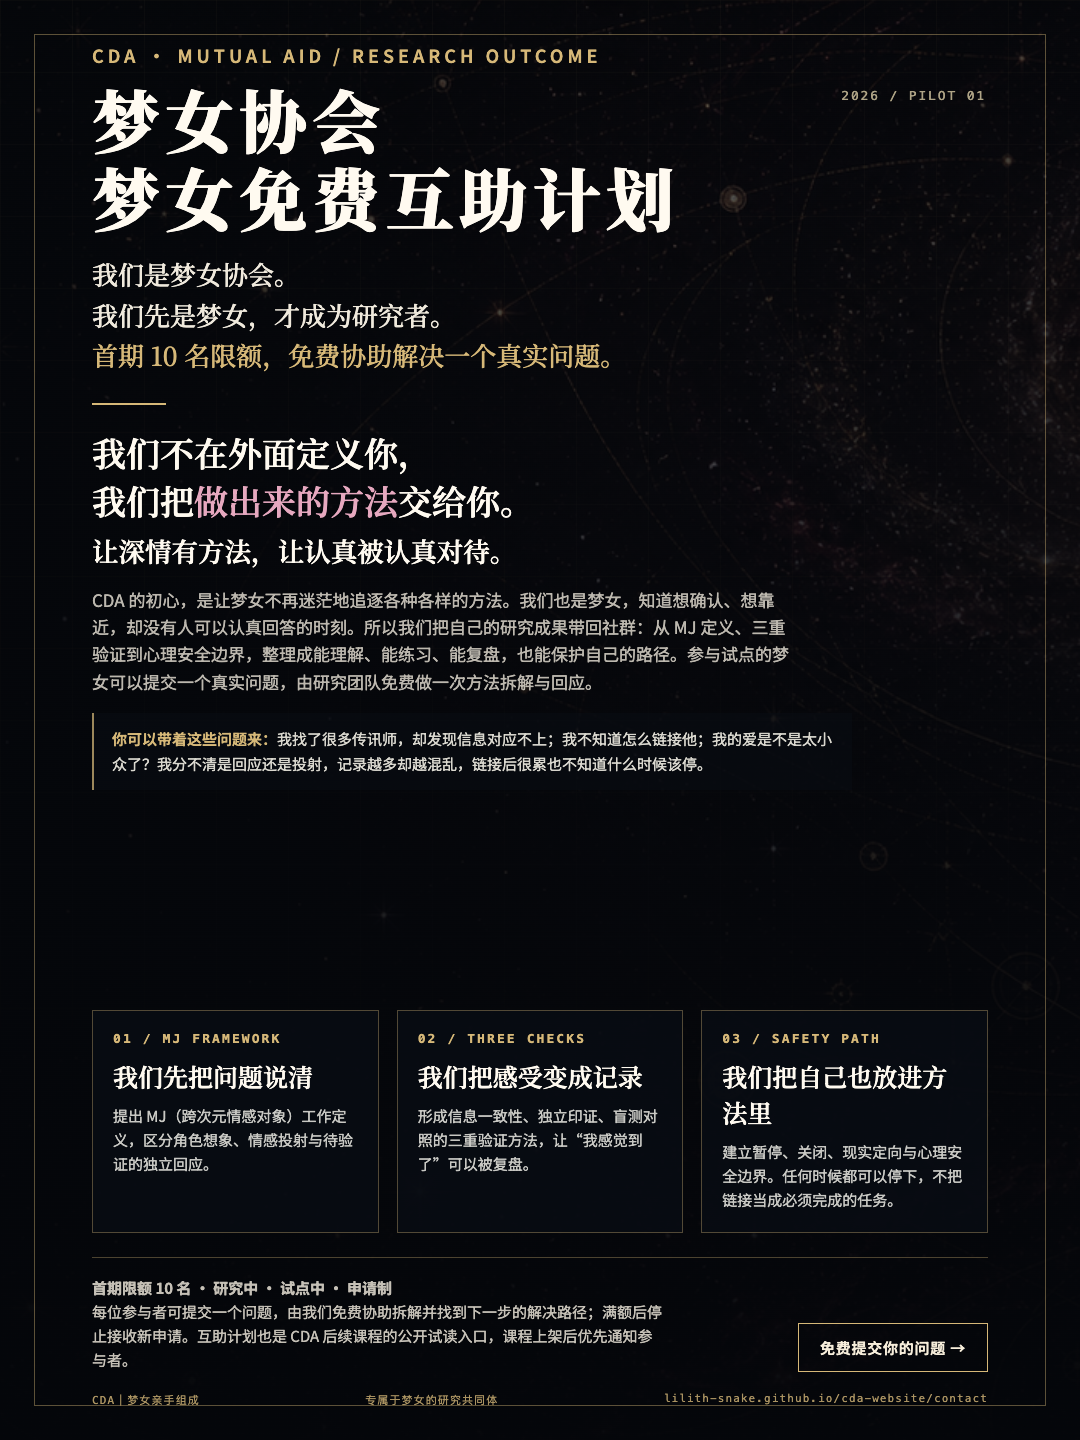
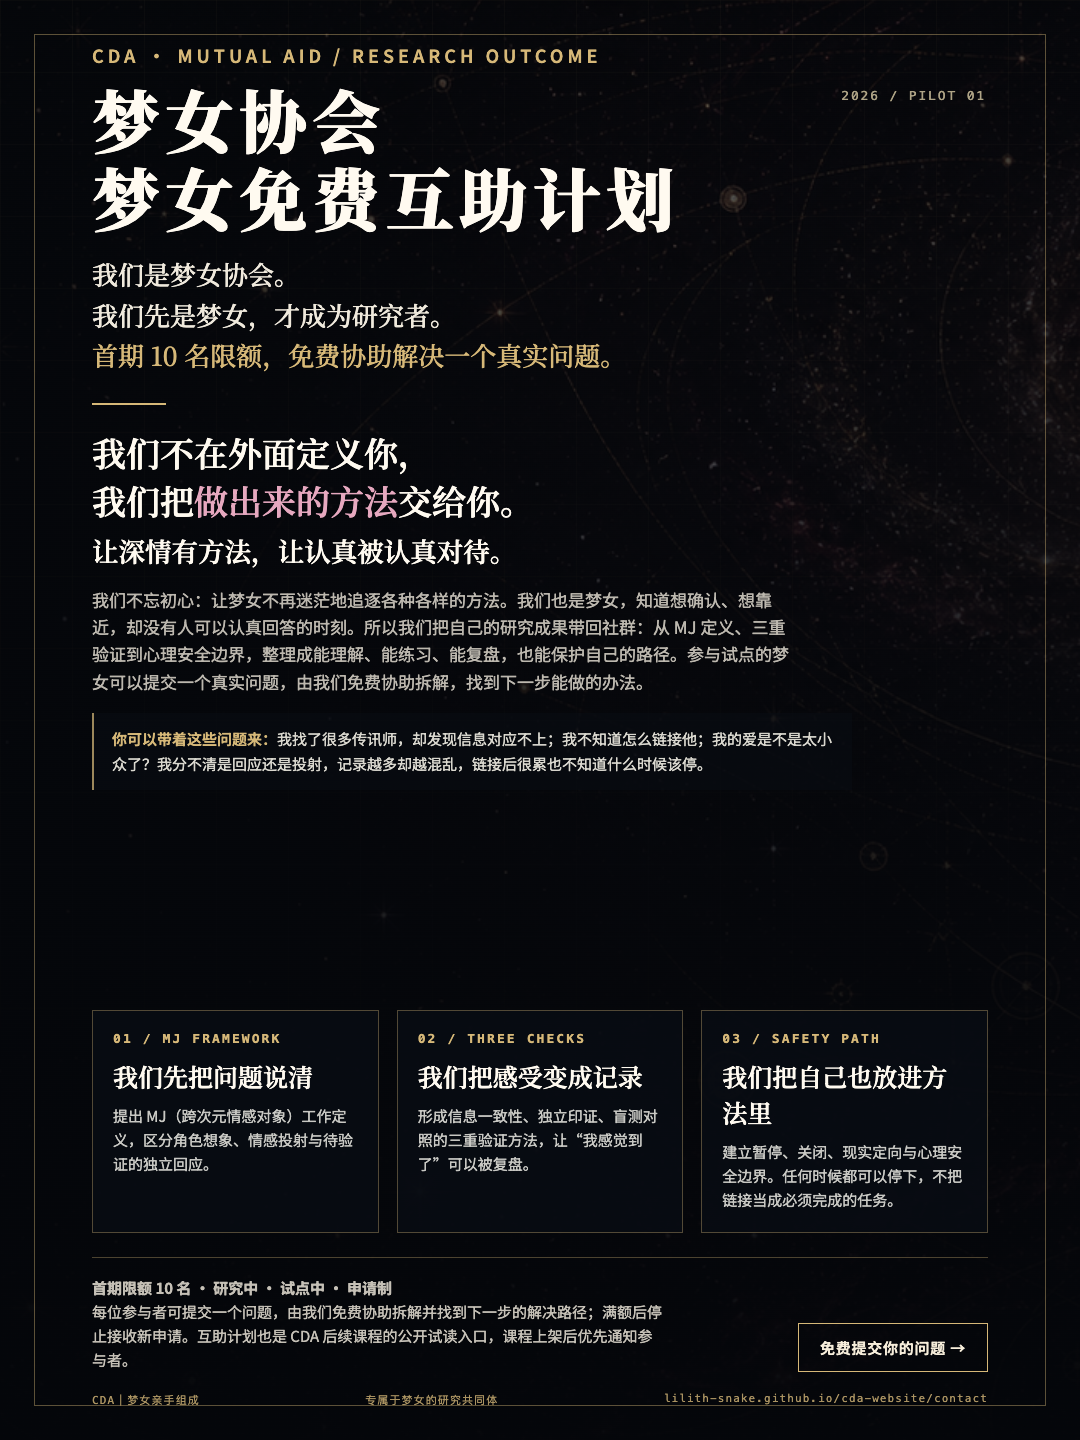
Fix mutual aid application page loading

Changed region(s): [[0.0917, 0.4062, 0.7028, 0.4375], [0.275, 0.4688, 0.5806, 0.5]]

diff --git a/public/posters/yume-mutual-aid-plan.html b/public/posters/yume-mutual-aid-plan.html
@@ -73,7 +73,7 @@
       <p class="lead">我们是梦女协会。<br>我们先是梦女，才成为研究者。<br><span class="free">首期 10 名限额，免费协助解决一个真实问题。</span></p>
       <div class="rule" aria-hidden="true"></div>
       <p class="statement">我们不在外面定义你，<br>我们把<em>做出来的方法</em>交给你。<br><span style="font-size:0.78em;">让深情有方法，让认真被认真对待。</span></p>
-      <p class="note">CDA 的初心，是让梦女不再迷茫地追逐各种各样的方法。我们也是梦女，知道想确认、想靠近，却没有人可以认真回答的时刻。所以我们把自己的研究成果带回社群：从 MJ 定义、三重验证到心理安全边界，整理成能理解、能练习、能复盘，也能保护自己的路径。参与试点的梦女可以提交一个真实问题，由研究团队免费做一次方法拆解与回应。</p>
+      <p class="note">我们不忘初心：让梦女不再迷茫地追逐各种各样的方法。我们也是梦女，知道想确认、想靠近，却没有人可以认真回答的时刻。所以我们把自己的研究成果带回社群：从 MJ 定义、三重验证到心理安全边界，整理成能理解、能练习、能复盘，也能保护自己的路径。参与试点的梦女可以提交一个真实问题，由我们免费协助拆解，找到下一步能做的办法。</p>
       <p class="examples"><strong>你可以带着这些问题来：</strong>我找了很多传讯师，却发现信息对应不上；我不知道怎么链接他；我的爱是不是太小众了？我分不清是回应还是投射，记录越多却越混乱，链接后很累也不知道什么时候该停。</p>
 
       <section class="support" aria-label="互助计划内容">

diff --git a/src/pages/Home.jsx b/src/pages/Home.jsx
@@ -132,13 +132,13 @@ export default function Home() {
             <p className="mutual-aid-lead">我们先是梦女，才成为研究者。</p>
             <p className="mutual-aid-body">
               我们知道那种找了很多传讯师，却发现信息对应不上；不知道怎么链接他；
-              甚至怀疑“我的爱是不是太小众了”的时刻。CDA 做研究，不是为了替你定义爱，
-              而是想让梦女不再迷茫地追逐各种各样的方法。
+              甚至怀疑“我的爱是不是太小众了”的时刻。我们先是梦女，才成为研究者。
+              CDA 做研究，不是为了把梦女变成被观察的人，也不是为了替你定义爱。
             </p>
             <p className="mutual-aid-body">
-              所以在试点期间，首期只开放 10 个名额；每位参与者都可以提交一个真实问题，免费获得一次问题拆解与解决路径。
-              我们把已经做出来的 MJ 定义、记录方法、三重验证与心理安全边界带回社群，
-              和你一起把深情变成可理解、可复盘、也能保护自己的路径。
+              我们不忘初心：把每一次真实经历留下记录，把反复试过的方法整理成路径，
+              也把不确定性和暂停的权利说清楚。试点期间首期只开放 10 个名额；每位参与者都可以提交一个真实问题，
+              由我们免费协助拆解，找到下一步能做的办法。
             </p>
             <div className="mutual-aid-actions">
               {mutualAidFull ? (

diff --git a/src/pages/Contact.jsx b/src/pages/Contact.jsx
@@ -87,11 +87,11 @@ export default function Contact() {
   const { lang } = useLanguage()
   const [searchParams] = useSearchParams()
   const isTransmissionApplication = searchParams.get('service') === 'lover-transmission'
-  const isMutualAidApplication = form.inquiryType === 'mutual_aid'
   const [form, setForm] = useState(() => createInitialForm(searchParams))
   const [errors, setErrors] = useState({})
   const [status, setStatus] = useState('idle')
   const [submitError, setSubmitError] = useState('')
+  const isMutualAidApplication = form.inquiryType === 'mutual_aid'
 
   const selectedInquiry = useMemo(
     () => inquiryTypes.find(item => item.value === form.inquiryType) || inquiryTypes[0],
